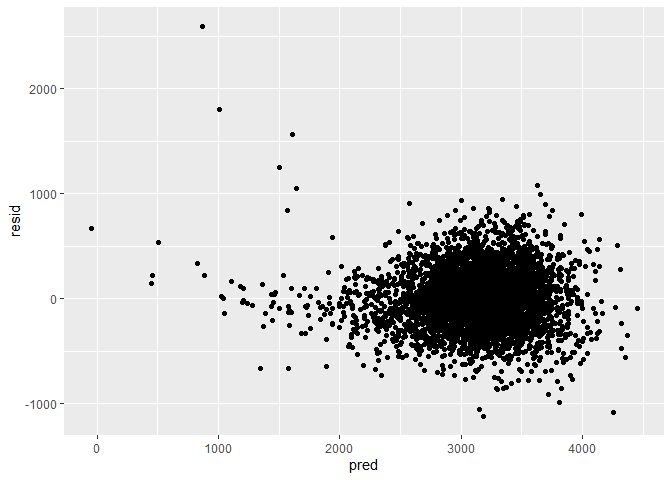
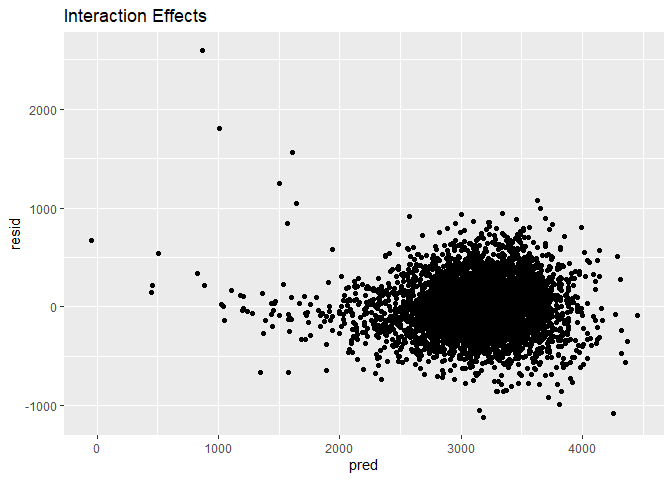
This commit adds titles to the plots.

diff --git a/p8106_hw6_mss2284.md b/p8106_hw6_mss2284.md
@@ -7,14 +7,14 @@ Maya Spaur
 library(tidyverse)
 ```
 
-    ## -- Attaching packages --------------- tidyverse 1.2.1 --
+    ## -- Attaching packages ---------------------------------- tidyverse 1.2.1 --
 
     ## v ggplot2 3.2.1     v purrr   0.3.3
     ## v tibble  2.1.3     v dplyr   0.8.3
     ## v tidyr   1.0.0     v stringr 1.4.0
     ## v readr   1.3.1     v forcats 0.4.0
 
-    ## -- Conflicts ------------------ tidyverse_conflicts() --
+    ## -- Conflicts ------------------------------------- tidyverse_conflicts() --
     ## x dplyr::filter() masks stats::filter()
     ## x dplyr::lag()    masks stats::lag()
 
@@ -159,7 +159,7 @@ scatter_plot =
   data %>% 
   modelr::add_residuals(proposed_model) %>% 
   modelr::add_predictions(proposed_model) %>%
-  ggplot(aes(x = pred, y = resid)) + geom_point()
+  ggplot(aes(x = pred, y = resid)) + geom_point() + labs(title= "Model residues against fitted values for Proposed Model")
 
 scatter_plot
 ```
@@ -191,7 +191,7 @@ plot_main_effects =
   data %>% 
   modelr::add_residuals(main_effects) %>%
   modelr::add_predictions(main_effects) %>%
-  ggplot(aes(x = pred, y = resid)) + geom_point()
+  ggplot(aes(x = pred, y = resid)) + geom_point() + labs(title = "Main Effects")
 
 plot_main_effects
 ```
@@ -225,7 +225,7 @@ plot_interaction_effects =
   data %>% 
   modelr::add_residuals(interaction_effects) %>%
   modelr::add_predictions(interaction_effects) %>%
-  ggplot(aes(x = pred, y = resid)) + geom_point()
+  ggplot(aes(x = pred, y = resid)) + geom_point() + labs(title = "Interaction Effects")
 
 plot_interaction_effects
 ```
@@ -267,7 +267,7 @@ comparison_plot =
     values_to = "rmse",
     names_prefix = "rmse_") %>% 
   mutate(model = fct_inorder(model)) %>% 
-  ggplot(aes(x = model, y = rmse)) + geom_violin()
+  ggplot(aes(x = model, y = rmse)) + geom_violin() + labs(title = "Comparison of Models")
 
 comparison_plot
 ```
